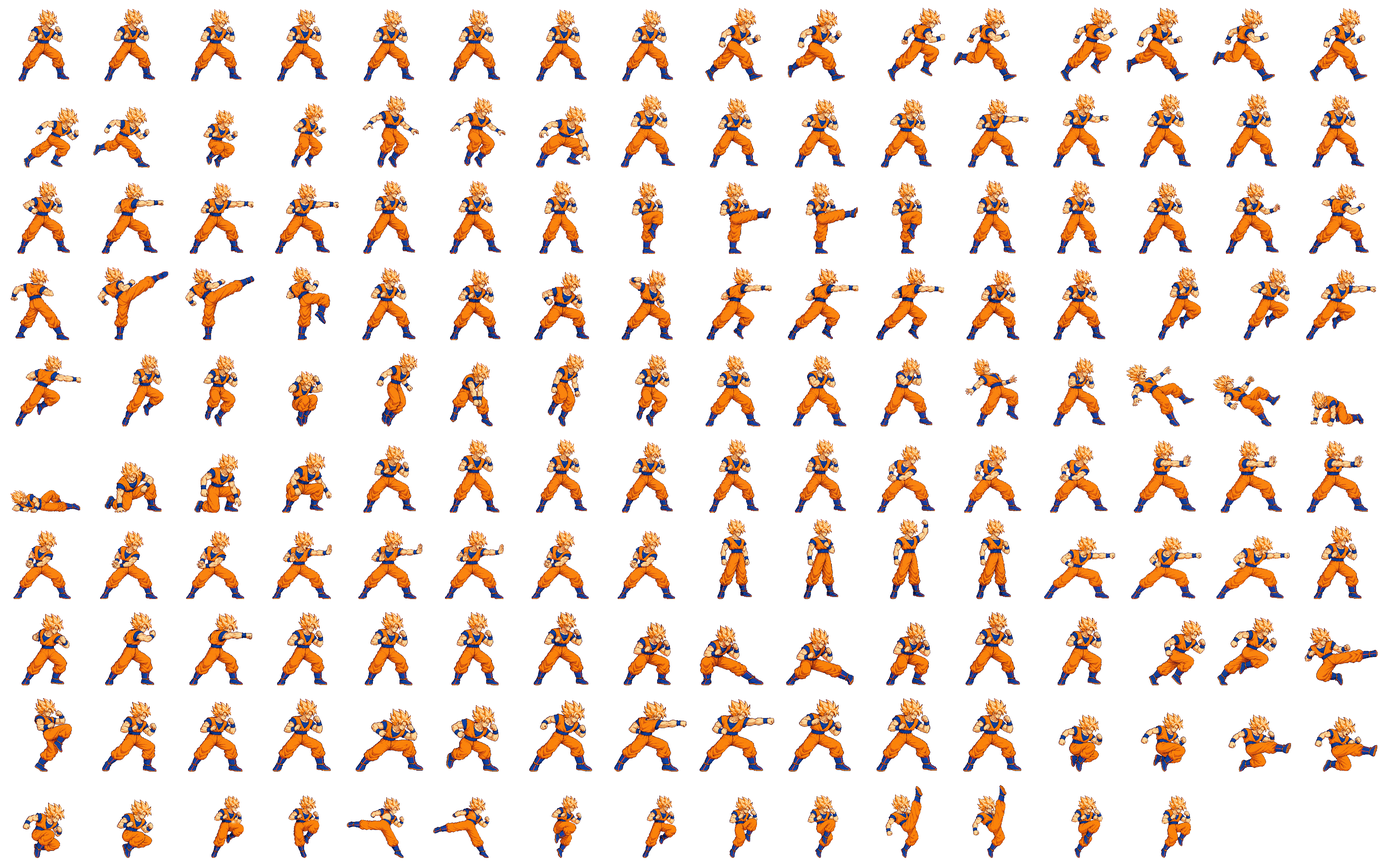
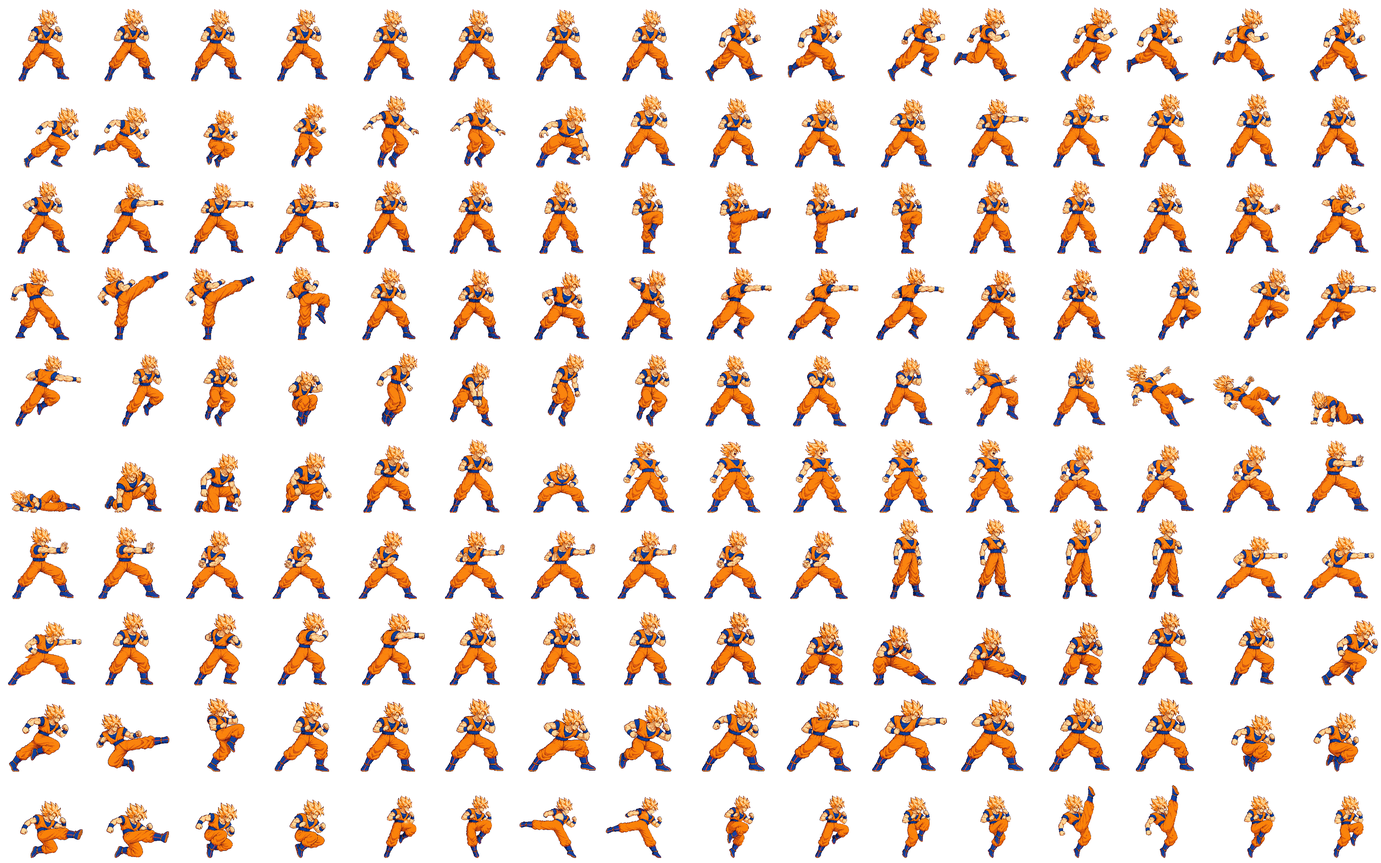
art(goku): package charge v10 review

Changed region(s): [[0.0, 0.5, 1.0, 1.0]]

diff --git a/public/reviews/charge-goku/index.html b/public/reviews/charge-goku/index.html
@@ -1,0 +1,31 @@
+<!doctype html>
+<html lang="en">
+<head>
+<meta charset="utf-8">
+<meta name="viewport" content="width=device-width,initial-scale=1">
+<title>Goku charge v10 review</title>
+<style>
+:root{color-scheme:dark;--bg:#10141c;--panel:#1a2230;--line:#354153;--text:#f2f5f9;--muted:#b8c2d0;--amber:#f6c85f;--red:#ff927e;--green:#9ee6b0}*{box-sizing:border-box}body{margin:0;background:var(--bg);color:var(--text);font:16px/1.55 system-ui,sans-serif}main{max-width:1200px;margin:auto;padding:28px 20px 64px}h1,h2{line-height:1.2}h1{font-size:clamp(2rem,5vw,3rem);margin:.2em 0}h2{font-size:1.45rem;margin:0 0 12px}.eyebrow{color:#9db4d1;text-transform:uppercase;letter-spacing:.12em;font-size:.8rem}.status{border:1px solid #866c32;background:#332b19;color:#ffe7a2;padding:14px 18px;border-radius:10px;margin:22px 0}.card{background:var(--panel);border:1px solid var(--line);border-radius:12px;padding:18px;margin:18px 0}.grid{display:grid;grid-template-columns:repeat(auto-fit,minmax(min(100%,420px),1fr));gap:14px}.media{width:100%;height:auto;display:block;background:#1d2027;border-radius:8px;border:1px solid var(--line)}.scroll{overflow:auto}.wide{min-width:900px}.buttons{display:flex;flex-wrap:wrap;gap:10px;margin:16px 0}.button{display:inline-block;background:#273954;border:1px solid #506789;border-radius:8px;padding:9px 14px;color:#fff;text-decoration:none}.button:hover{background:#334b70}.muted{color:var(--muted)}.hold{color:var(--amber)}.pass{color:var(--green)}ul{padding-left:1.2rem}code{color:#cfe1ff}footer{color:var(--muted);font-size:.9rem;margin-top:28px}
+</style>
+</head>
+<body><main>
+<p class="eyebrow">ART-CHARGE · Goku pilot · packed candidate v10</p>
+<h1>Goku charge redraw</h1>
+<p>Review the current approved charge (v05) beside the six-frame candidate (v10). The new timing plays gather and release once, then loops f2–f5 at 110 ms. The GIF runs the held loop four times and pauses.</p>
+<div class="status"><strong>Awaiting your drawing decision.</strong> v10 is not approved. The 48-color atlas and gameplay preview are for review only; the technical holds below remain open.</div>
+<div class="buttons"><a class="button" href="../../lab.html?p1=goku&amp;p2=naruto">Open Test Lab</a><a class="button" href="../../?fight=goku,naruto&amp;mode=solo&amp;debug">Open Goku match preview</a><a class="button" href="candidate-raw-v10.png">View raw candidate</a></div>
+<section class="grid">
+<article class="card"><h2>Current approved v05 · 50 ms per frame</h2><img class="media" src="current-v05-50ms.gif" alt="Current approved Goku charge v05 looping at 50 milliseconds per frame"><p class="muted">Extracted from the 5156b17d main atlas, the version this candidate replaces.</p></article>
+<article class="card"><h2>Candidate v10 · gather, release, then held loop</h2><img class="media" src="candidate-v10-plays-loop-four-times.gif" alt="Goku charge v10: gather, release, then four held loops before pausing"><p class="muted">Packed cells from the 48-color candidate atlas. This GIF plays f0, f1, f2–f5 four times, then pauses.</p></article>
+</section>
+<section class="card"><h2>All frames beside approved idle</h2><p class="muted">The idle f0 reference is first, followed by charge f0–f5. Both rows use the same packed cells and pixel density.</p><div class="scroll"><img class="media wide" src="new-packed-contact-1x.png" alt="Idle f0 and all six charge v10 frames side by side at one times scale"></div><p><a href="new-packed-contact-2x.png">Open the same lineup at 2× scale</a></p></section>
+<section class="card"><h2>Held-loop registration</h2><p class="muted">Packed f2–f5 at 2×, a tinted onion overlay, and pixel differences against f2. Yellow marks y220–240; cyan marks an approximate head region.</p><img class="media" src="registration-v10.png" alt="Packed charge v10 loop registration and pixel difference sheet"></section>
+<section class="card"><h2>Body sheet</h2><p class="muted">B compares garment area against idle f0. The tool labels B as advisory (about ±10% pose noise); a high value needs segment confirmation.</p><img class="media" src="body-goku-charge.png" alt="Goku charge v10 body sheet compared with approved idle and title combat reference"><p><a href="body-report.json">Machine-readable body report</a> · <a href="technical-notes.md">Full provenance and Astra evidence</a></p></section>
+<section class="card"><h2>Technical findings</h2><ul>
+<li><span class="pass">Astra qualitative anatomy and approximate placement: pass.</span> Identity, pose beats, body construction and silhouette are coherent against the approved idle and title-style references. No obvious clipping or quantization halo.</li>
+<li><span class="hold">Exact loop lock: hold.</span> At y240 the f2 floor pixels differ from f3/f4/f5 by 2/1/2 pixels; approximate foot placement is within 1 px. Knee and hip regions match about 1 px higher in f3–f5. The strict “identical pixels” rule is not met.</li>
+<li><span class="hold">Body size: advisory hold.</span> Body sheet B median is 1.175; f1–f5 range 1.164–1.199. The open-arm pose may raise garment area, but exact segment lengths remain uncertain. Goku’s automatic head probe is not reliable.</li>
+<li>Raw source contains soft/near-magenta pixels, but the 48-color packed cells show binary alpha, 47–48 colors per frame, and no obvious magenta fringe.</li>
+</ul><p class="muted">Interactive lab playback was not independently checked because Windows browser automation could not confirm the browser URL; the linked lab route uses the packed candidate and configured loop timing. A drawing approval covers v10 as drawn only. It does not clear the loop/body technical holds or approve gameplay integration.</p></section>
+<footer>Candidate v10 SHA256 <code>6317af1187a981d7fd44db59a9e5c0f5ed69356fe8d4f5571a9d3e7a8f6b6be5</code>. Packed sheet SHA256 <code>9a1417af010ead2f9ce0027c3835b2aee61964e2ffb08b1014eed4ecaa2ae0b4</code>. ENG-117 loopFrom support is on main. Review page and preview are not evidence of approval.</footer>
+</main></body></html>

diff --git a/art/characters/goku/production/charge-v10/REGISTRATION.md b/art/characters/goku/production/charge-v10/REGISTRATION.md
@@ -13,11 +13,11 @@
 
 Claude's relay charge #2 reports that it trial-packed the unchanged image using the Goku manifest, `--quantize 48`, and `loopFrom: 2`. After packer feet registration, f1-f5 feet matched within 1 px (x 49-206); f3-f5 relative to f2 had body dx 0, dy -1 and head/shoulders at most dx -1, dy -2. The 8 px height excess in f3-f5 was attributed to hair spikes. Claude reports these packed measurements are within the brief's loop lock. This is relayed evidence; Codex has not reproduced it in this worktree.
 
-The old source-canvas bounding-box centers in `charge_v08_HOLD.md` are not registered packed-cell measurements and must not be used as the final loop verdict. As directed in relay #2, registration from the production quantized packed cells is authoritative. ENG-117 (`loopFrom`) must reach main before a production pack, onion-skin registration sheet, body sheet, lab loop, or final packed atlas audit can be made.
+The old source-canvas bounding-box centers in `charge_v08_HOLD.md` are not registered packed-cell measurements and must not be used as the final loop verdict. As directed in relay #2, registration from the production quantized packed cells is authoritative. ENG-117 (`loopFrom`) is on main. The final review pack and registration sheet use packed atlas cells; the Sprite Lab route is linked, but interactive playback was not independently verified in this session.
 
 ## Astra pre-pack audit
 
-The raw candidate has been compared with the approved Goku model sheet, expression sheet, idle, and title-style baseline. Astra's pre-pack review found the identity and six-pose intent usable, with no visible clipping, but the raw source is not a clean technical pass: it contains 180,498 unique RGB values and nonuniform near-magenta background pixels (example: f0 top-left RGB 242, 12, 241). The held loop's source centers differ, so the loop lock cannot be certified from the raw canvas. Final quantized packed-cell registration and loop audit remain **HOLD/PENDING**. See the exact frame-level Astra findings in this file's audit addendum when received.
+The raw candidate was compared with the approved Goku model sheet, expression sheet, idle, and title-style baseline. Astra's pre-pack review found the identity and six-pose intent usable, with no visible clipping, but the raw source is not a clean technical pass: it contains 180,498 unique RGB values and nonuniform near-magenta background pixels (example: f0 top-left RGB 242, 12, 241). The held loop's source centers differ, so the loop lock cannot be certified from the raw canvas. Final quantized packed-cell registration and loop audit remain **HOLD/PENDING**. See the exact frame-level Astra findings in this file's audit addendum when received.
 
 This technical review is not user design approval. v10 is `needs review`; no approval is inferred.
 
@@ -30,7 +30,7 @@ This technical review is not user design approval. v10 is `needs review`; no app
 
 ## Astra frame-level raw audit (GPT-6 Astra, medium)
 
-**Finding:** raw visual/anatomy PASS to proceed to a diagnostic pack; raw technical compliance HOLD; packed-loop/anatomy audit HOLD. No user design approval. Qualitative comparison only, not a numeric segment pass. Hair obscures the skull crown, clothing obscures joints, and anchor/candidate pixel densities differ; physical segment comparisons remain uncertain.
+**Historical finding:** raw visual/anatomy PASS to proceed to a diagnostic pack; raw technical compliance HOLD; packed-loop/anatomy audit was pending at that stage. The packed audit below supersedes the packed-loop status. No user design approval. Qualitative comparison only, not a numeric segment pass. Hair obscures the skull crown, clothing obscures joints, and anchor/candidate pixel densities differ; physical segment comparisons remain uncertain.
 
 - f0: clear deep gather, lowered head, bent knees, fists at hips; crouch explains the shorter silhouette. No obvious enlarged head or compressed limb anatomy.
 - f1: clear release with raised chest, open shout, fists lowered and spread, wide planted stance; matches the approved shouting expression; arms and boots appear complete.
@@ -41,4 +41,20 @@ This technical review is not user design approval. v10 is `needs review`; no app
 
 Magenta-family-mask bounds (inclusive, source pixels within each 512x512 cell; fringe threshold uncertainty about +/-1-2 px): f0 `(68,161,439,497)`, f1 `(68,22,423,497)`, f2 `(58,26,411,497)`, f3 `(97,7,453,497)`, f4 `(68,7,423,497)`, f5 `(57,8,411,497)`. No visible boundary crossing; f3/f4 have 7 px above hair and each frame has 14 px below soles, short of the requested 20 px margin. Independent color count: 180,498 unique RGB values; soft/antialiased edges and background are not exact flat magenta (f0 top-left `(242,12,241)`). Inspect quantization for halos, silhouette erosion and lost face detail.
 
-Astra did not reproduce Claude relay #2's feet-registered measurements. Final acceptance remains contingent on actual quantized atlas inspection: body segments vs approved anchors, registered fists/feet/head, and f5-to-f2 playback.
+Claude relay #2 provided earlier trial-pack registration numbers. The final pack was independently audited below; final acceptance still has the exact loop-lock and body-segment holds recorded there, with the timed seam not independently checked.
+
+## Packed diagnostic and Astra final audit (GPT-6 Astra, medium)
+
[1 lines of base64/hex data omitted]
+
+Astra finding: qualitative identity/anatomy and approximate placement PASS; literal loop-lock compliance HOLD. f2-f5 floor occupancy masks differ from f2 by 2 / 1 / 2 pixels; foot contour positions are within 1 px. The f2 floor span is left 52-67 and right 188-205; f3 is 51-66 / 188-205; f4 is 51-67 / 188-205; f5 is 51-67 / 187-205. At y240 there are 34, 34, 35, 36 occupied pixels for f2-f5 respectively. Footprint XOR over y220-240 is 59 / 57 / 47. Regional registration estimates relative to f2: head f3 `(0,-1)`, f4 `(0,-2)`, f5 `(-1,-2)`; knees and hips each `(0,-1)`; left fist each `(-1,-1)`; right fist `(0,-1)`, `(1,-1)`, `(0,-1)`. Estimates are ±1 px and include cloth/shading changes, not located anatomical joint centers. Therefore the stated ≤1 px approximate placement passes, but the exact identical floor-pixel and locked knee/hip wording does not. Timed seam playback was not independently checked at audit time.
+
+Astra reports f0 is a clear crouched gather (149 px occupied height); f1 is a clear release; f2 is a coherent held reference. f3-f5 preserve apparent build and pose with breathing/updraft changes. No obvious anatomical discontinuity, enlarged head, shortened limb, missing digit mass, inflated clothing or clipping was found. This is qualitative only: hidden crown/joints and clothing prevent a defensible numeric segment pass. This does not support a version-bound numeric scale pass or clear loop lock or approve the art.
+
+Body sheet (`body-sheet/body-goku-charge.png`, `body-sheet/body-report.json`) gives garment-area B by frame `0.973, 1.164, 1.165, 1.189, 1.199, 1.184`, median `1.175` versus idle f0. B is advisory and can rise with the open-arm/wide-stance pose, but it is above the 1.12 flag and the segment measurements remain uncertain. Head-probe H values are not reliable for Goku under the manual head-probe configuration. Keep the body-size check as a visible review caveat. The combat comparison in the body sheet is the approved `title-combat-v02.png`; it was copied under the body-sheet tool’s expected alias in temporary staging.
+
+The quantized output has binary alpha, 47-48 occupied colors per frame and no visible magenta fringe or cell clipping. The source's near-magenta/soft-edge concern did not produce an obvious halo in the packed cells.
+
+### Review status
+
+No `scaleManualQA` pass is recorded for v10. Goku’s automatic probe is unreliable, segment measurements remain uncertain, and the B median is above the advisory threshold. The pack metadata reports this candidate as unmeasured. This is not a loop-lock pass, numeric segment pass, runtime approval or user design approval. Candidate v10 remains `needs review`; approvedVersion remains 5.

diff --git a/public/reviews/charge-goku/technical-notes.md b/public/reviews/charge-goku/technical-notes.md
@@ -1,0 +1,60 @@
+# Goku charge v10 provenance and registration status
+
+## Candidate identity
+
+- Candidate: `art/characters/goku/raw/charge_v10.png`
+- Source: `art/characters/goku/raw/_qa_hold/charge_v08_attempt03.png`
[1 lines of base64/hex data omitted]
+- Dimensions: 1536 x 1024; six cells in a 3-column x 2-row layout.
+- Promotion: byte-identical file copy, no new image call and no pixel edits. Attempt prompts and original raw-canvas measurements remain in `raw/_qa_hold/charge_v08_HOLD.md`.
+- Manifest `bodyHeight: 237` is provisional, retained from the existing charge slot pending body-sheet measurement against the approved idle. `approvedVersion` remains 5.
+
+## Registration evidence
+
+Claude's relay charge #2 reports that it trial-packed the unchanged image using the Goku manifest, `--quantize 48`, and `loopFrom: 2`. After packer feet registration, f1-f5 feet matched within 1 px (x 49-206); f3-f5 relative to f2 had body dx 0, dy -1 and head/shoulders at most dx -1, dy -2. The 8 px height excess in f3-f5 was attributed to hair spikes. Claude reports these packed measurements are within the brief's loop lock. This is relayed evidence; Codex has not reproduced it in this worktree.
+
+The old source-canvas bounding-box centers in `charge_v08_HOLD.md` are not registered packed-cell measurements and must not be used as the final loop verdict. As directed in relay #2, registration from the production quantized packed cells is authoritative. ENG-117 (`loopFrom`) is on main. The final review pack and registration sheet use packed atlas cells; the Sprite Lab route is linked, but interactive playback was not independently verified in this session.
+
+## Astra pre-pack audit
+
+The raw candidate has been compared with the approved Goku model sheet, expression sheet, idle, and title-style baseline. Astra's pre-pack review found the identity and six-pose intent usable, with no visible clipping, but the raw source is not a clean technical pass: it contains 180,498 unique RGB values and nonuniform near-magenta background pixels (example: f0 top-left RGB 242, 12, 241). The held loop's source centers differ, so the loop lock cannot be certified from the raw canvas. Final quantized packed-cell registration and loop audit remain **HOLD/PENDING**. See the exact frame-level Astra findings in this file's audit addendum when received.
+
+This technical review is not user design approval. v10 is `needs review`; no approval is inferred.
+
+## Approved identity anchor hashes
+
[3 lines of base64/hex data omitted]
+- Title-style comparison: `art/scale/title-style-pilot/PRODUCTION_CONTRACT.md` and the exact approved cells in `public/art-review/title-style-pilot/`.
+
+## Astra frame-level raw audit (GPT-6 Astra, medium)
+
+**Finding:** raw visual/anatomy PASS to proceed to a diagnostic pack; raw technical compliance HOLD; packed-loop/anatomy audit HOLD. No user design approval. Qualitative comparison only, not a numeric segment pass. Hair obscures the skull crown, clothing obscures joints, and anchor/candidate pixel densities differ; physical segment comparisons remain uncertain.
+
+- f0: clear deep gather, lowered head, bent knees, fists at hips; crouch explains the shorter silhouette. No obvious enlarged head or compressed limb anatomy.
+- f1: clear release with raised chest, open shout, fists lowered and spread, wide planted stance; matches the approved shouting expression; arms and boots appear complete.
+- f2: suitable held-pose reference; upward face, clenched fists, planted knees and feet.
+- f3: same apparent anatomical pose but source figure is displaced right. This is not proof of drift after feet registration. Hair and cloth differ.
+- f4: same apparent held-body construction; lifted gi flap and changed hair. No obvious limb-length or head-volume discontinuity by visual inspection.
+- f5: source placement returns near f2, with higher hair. The f5-to-f2 seam still needs playback inspection.
+
+Magenta-family-mask bounds (inclusive, source pixels within each 512x512 cell; fringe threshold uncertainty about +/-1-2 px): f0 `(68,161,439,497)`, f1 `(68,22,423,497)`, f2 `(58,26,411,497)`, f3 `(97,7,453,497)`, f4 `(68,7,423,497)`, f5 `(57,8,411,497)`. No visible boundary crossing; f3/f4 have 7 px above hair and each frame has 14 px below soles, short of the requested 20 px margin. Independent color count: 180,498 unique RGB values; soft/antialiased edges and background are not exact flat magenta (f0 top-left `(242,12,241)`). Inspect quantization for halos, silhouette erosion and lost face detail.
+
+Astra did not reproduce Claude relay #2's feet-registered measurements. Final acceptance remains contingent on actual quantized atlas inspection: body segments vs approved anchors, registered fists/feet/head, and f5-to-f2 playback.
+
+## Packed diagnostic and Astra final audit (GPT-6 Astra, medium)
+
[1 lines of base64/hex data omitted]
+
+Astra finding: qualitative identity/anatomy and approximate placement PASS; literal loop-lock compliance HOLD. f2-f5 floor occupancy masks differ from f2 by 2 / 1 / 2 pixels; foot contour positions are within 1 px. The f2 floor span is left 52-67 and right 188-205; f3 is 51-66 / 188-205; f4 is 51-67 / 188-205; f5 is 51-67 / 187-205. At y240 there are 34, 34, 35, 36 occupied pixels for f2-f5 respectively. Footprint XOR over y220-240 is 59 / 57 / 47. Regional registration estimates relative to f2: head f3 `(0,-1)`, f4 `(0,-2)`, f5 `(-1,-2)`; knees and hips each `(0,-1)`; left fist each `(-1,-1)`; right fist `(0,-1)`, `(1,-1)`, `(0,-1)`. Estimates are ±1 px and include cloth/shading changes, not located anatomical joint centers. Therefore the stated ≤1 px approximate placement passes, but the exact identical floor-pixel and locked knee/hip wording does not. Timed seam playback was not independently checked at audit time.
+
+Astra reports f0 is a clear crouched gather (149 px occupied height); f1 is a clear release; f2 is a coherent held reference. f3-f5 preserve apparent build and pose with breathing/updraft changes. No obvious anatomical discontinuity, enlarged head, shortened limb, missing digit mass, inflated clothing or clipping was found. This is qualitative only: hidden crown/joints and clothing prevent a defensible numeric segment pass. This supports the version-bound Goku manual head-scale record needed by the packer; it does not clear loop lock or approve the art.
+
+Body sheet (`body-sheet/body-goku-charge.png`, `body-sheet/body-report.json`) gives garment-area B by frame `0.973, 1.164, 1.165, 1.189, 1.199, 1.184`, median `1.175` versus idle f0. B is advisory and can rise with the open-arm/wide-stance pose, but it is above the 1.12 flag and the segment measurements remain uncertain. Head-probe H values are not reliable for Goku under the manual head-probe configuration. Keep the body-size check as a visible review caveat. The combat comparison in the body sheet is the approved `title-combat-v02.png`; it was copied under the body-sheet tool’s expected alias in temporary staging.
+
+The quantized output has binary alpha, 47-48 occupied colors per frame and no visible magenta fringe or cell clipping. The source's near-magenta/soft-edge concern did not produce an obvious halo in the packed cells.
+
+### Review status
+
+No `scaleManualQA` pass is recorded for v10. Goku’s automatic probe is unreliable, segment measurements remain uncertain, and the B median is above the advisory threshold. The pack metadata reports this candidate as unmeasured. This is not a loop-lock pass, numeric segment pass, runtime approval or user design approval. Candidate v10 remains `needs review`; approvedVersion remains 5.

diff --git a/art/characters/goku/CLAUDE_ART_HANDOFF.md b/art/characters/goku/CLAUDE_ART_HANDOFF.md
@@ -1,19 +1,17 @@
 # Claude art handoff — ART-CHARGE Goku pilot
 
-## Current status (2026-10-18; relay charge #2)
+## Current status (2026-10-18; relay charge #3)
 
[2 lines of base64/hex data omitted]
 
-Claude relay #2 reports a trial pack with f1-f5 feet within 1 px; f3-f5 body dx 0/dy -1 and head/shoulders at most dx -1/dy -2 relative to f2; the 8 px added height is hair spikes. This is relayed external evidence; Astra did not reproduce it. Astra's raw visual/anatomy review says the six pose beats and identity are usable to proceed to diagnostic packing, but raw technical compliance is HOLD: 180,498 unique RGB values, nonuniform near-magenta background, soft edges, 7 px top hair margin in f3/f4 and 14 px below soles. The loop cannot be certified from raw source centers. Exact audit and provenance are in `production/charge-v10/REGISTRATION.md`.
+### Audit and holds
 
-## Engine dependency and next work
+Astra qualitatively passes identity, pose intent, anatomy screening and approximate registration. Exact loop lock remains HOLD: f2-to-f3/f4/f5 floor-mask changes are 2/1/2 pixels, feet contours are within 1 px, and knee/hip region estimates are about 1 px high with ±1 px uncertainty. Body sheet B is `0.973, 1.164, 1.165, 1.189, 1.199, 1.184` (median `1.175`, advisory-high); exact segment measurements remain uncertain and Goku’s automatic head probe is unreliable. No `scaleManualQA` pass is recorded. Quantization has no obvious magenta halo or clipping. The timed lab route is linked but interactive playback was not independently checked because Windows browser automation could not confirm the browser URL; the review GIF shows f0, f1, four f2-f5 cycles, then pause.
 
-Do not pack until ENG-117 (PR #182, `loopFrom`) is on main. Claude will relay when available. Then merge main into this task branch, verify `loopFrom` support, pack with Goku's production options, inspect the quantized cells, create the registration sheet/body sheet/lab loop, and complete the final packed Astra audit. Correct technical defects only within authorized attempts; no new image calls for Goku unless the user directs them. After the pack and review page/preview are ready, ring charge for user review and stop.
-
-The current candidate is not user-approved and no review page or preview exists. Do not begin another fighter until the user's Goku response is delivered as a relay message or typed in this chat. Codex has not merged or deployed anything.
+Review page: `public/reviews/charge-goku/`. Local route: `/lab.html?p1=goku&p2=naruto`; match route: `/?fight=goku,naruto&mode=solo&debug`. Preview: pending `npm run pr -- preview`. This candidate is not approved and is not cleared for integration. Do not start another fighter before the user answers on Goku.
 
 ## Branch and preserved history
 
 - Branch: `art/charge-goku`
 - Worktree: `E:/Vibe Coding/Claude Code/gcdTourney/.worktrees/art-charge-goku`
-- Earlier rounds v06-v09 and their prompts/holds remain preserved under `raw/_qa_hold/`; this v10 is promoted from v08 attempt03 after Claude's registration correction.
+- Earlier rounds v06-v09 and their prompts/holds remain preserved under `raw/_qa_hold/`; this v10 is promoted from v08 attempt03 without modification.

diff --git a/art/REVIEW.md b/art/REVIEW.md
@@ -6,7 +6,7 @@ Goku's head probe is manually disabled. Astra's relay #39 visual scale review pa
 
 | date | character | asset | file | version | status | what changed | QA notes |
 |---|---|---|---|---|---|---|---|
-| 2026-10-18 | Goku | charge | [v10](characters/goku/raw/charge_v10.png) · [provenance and registration](characters/goku/production/charge-v10/REGISTRATION.md) | v10 | needs review | Promoted unchanged from v08 attempt03 after Claude's feet-registered trial-pack correction. | Candidate only; no approval. Claude reports f1-f5 feet within 1 px and f3-f5 body dx 0/dy -1, head/shoulders max dx -1/dy -2 relative to f2; 8 px extra height is hair. Astra's raw audit found nonuniform near-magenta pixels; loop audit remains pre-pack. Production quantized atlas check waits for ENG-117 loopFrom on main; review page and preview remain pending. |
+| 2026-10-18 | Goku | charge | [v10](characters/goku/raw/charge_v10.png) · [review page](../public/reviews/charge-goku/) · [registration/Astra audit](characters/goku/production/charge-v10/REGISTRATION.md) · [body sheet](characters/goku/production/charge-v10/body-sheet/body-goku-charge.png) | v10 | needs review | Promoted unchanged from v08 attempt03 after Claude's feet-registered trial-pack correction. | 48-color full pack: 31 animations / 160 frames; loopFrom 2. Astra qualitative anatomy and approximate placement pass, but exact f2-f5 floor mask lock HOLD (2/1/2 changed pixels; approximate foot contour within 1px), B median 1.175 advisory-high and segments uncertain. Raw near-magenta concern produced no obvious packed halo. Candidate only, not approved; preview/user decision pending.
 | 2026-10-18 | Goku | fTilt | [v01](characters/goku/raw/fTilt_v01.png) · [attempt ledger](characters/goku/raw/_qa_hold/fTilt_v01_attempt03.md) · [48-color atlas](characters/goku/production/eng112-dsmash-v02-diagnostic/characters/goku/sheet.png) · [Astra audit](characters/goku/production/ENG112_IMPORT_SCALE_AUDIT.md) | v01 | approved | Selected attempt 3 unchanged as the chest-height punch pilot; attempt 1 output lost and documented, attempt 2 retained, attempt 3 selected. | Astra scaleManualQA PASS for exact 48-color quantized cells 111–117 at strip scale 1; build/torso/boots/gi coherent against idle/light2 within ±3–4px ground uncertainty. Cell 113 contact timing remains separate. User approved as drawn via Claude relay combat #40: “fTilt v01, dTilt v01, dashAttack v01, fSmash v01 / fair v01, bair v01, uair v01”. Drawing approval only; strict gate and runtime contact remain separate. |
 | 2026-10-18 | Goku | fair | [v01](characters/goku/raw/fair_v01.png) · [attempt ledger](characters/goku/raw/_qa_hold/fair_v01_attempt03.md) · [48-color atlas](characters/goku/production/eng112-dsmash-v02-diagnostic/characters/goku/sheet.png) · [Astra audit](characters/goku/production/ENG112_IMPORT_SCALE_AUDIT.md) | v01 | approved | Selected attempt 3 unchanged as the airborne kick pilot; attempts 1 and 2 retained. | Astra scaleManualQA PASS for exact quantized cells 163–168 at strip packScale .92; complete limbs and coherent proportions within ±5–6px rotated-pose uncertainty; active boots have 11px margin. User approved as drawn via Claude relay combat #40: “fTilt v01, dTilt v01, dashAttack v01, fSmash v01 / fair v01, bair v01, uair v01”. Drawing approval only; strict gate and runtime contact remain separate. |
 | 2026-10-18 | Goku | uTilt | [v01](characters/goku/raw/uTilt_v01.png) · [attempt ledger](characters/goku/raw/_qa_hold/uTilt_v01_attempt01.md) · [Astra audit](characters/goku/production/ENG112_IMPORT_SCALE_AUDIT.md) | v01 | needs review | Seven-frame rising arc candidate. | Technical HOLD: guard cells 118/124 show visibly reduced boots (26–31px vs idle 36–41px), torso, arms and clothing; ±3px ground uncertainty does not explain the combined reduction. Frame 122 has 25px top margin. Relay #41 authorizes one fresh round of up to 3 calls for this move after the seven-move branch is merged; not started on this branch. |

diff --git a/art/TRACKER.md b/art/TRACKER.md
@@ -742,7 +742,7 @@ World batches are reviewed together in [REVIEW.md](REVIEW.md); the claim queue t
 
 ## goku
 
[2 lines of base64/hex data omitted]
 
 Relay 9 (2026-10-16) authorized one redraw call each for `light3` and `heavy` (fifth cumulative call each). Original outputs `light3_v10` and `heavy_v12` remain preserved under `characters/goku/raw/_qa_hold/`; relay9 assemblies are `light3_v11` (.62, 256px diagnostic plus complete 280px companion) and `heavy_v14` (.720). Relay #10 user-approved heavy v14 as drawn (“Approved”); its exact 22-animation/101-frame strict atlas technical PASS is documented. Relay #11 authorized exactly one sixth cumulative light3 call (user quote: “Goku luffy retry”). Its v12 source is preserved under `_qa_hold`, and v13 is active at `characters/goku/raw/light3_v13.png` with a byte-identical preservation copy under `_qa_hold`; factor .696133442603862 comes from multi-reference torso/boot/belt landmarks, not posed bbox fitting. Astra passed the exact 23-animation/108-frame quantized atlas within measurement uncertainty; all 101 retained alpha masks match the prior audited baseline and light3 v13 packs x1 at bodyHeight237 within native-size tolerance. The real strict branch pack reproduces audited sheet/meta hashes. Manifest newest and approved version is 13. The user approved Goku light3 v13 via Claude relay #12: "Approve Goku light3 v13 and Luffy special v02 as drawn." Heavy v14 stays user-approved/approvedVersion 14. See `characters/goku/production/relay11-generation/` and `characters/goku/production/manual-audit-r5/`. No further generation call is authorized.
 

diff --git a/CHANGELOG.md b/CHANGELOG.md
@@ -16,7 +16,7 @@ Fixed, Security. Reference task ids and ADRs where useful.
 
 ## [Unreleased]
 
-- Changed (ART-CHARGE): promoted Goku charge v10 unchanged from v08 attempt03 after Claude reported feet-registered trial-pack loop measurements; recorded raw Astra technical holds and preserved the earlier attempts. Production quantized packing and user review wait for ENG-117 (`loopFrom`) on main.
+- Changed (ART-CHARGE): promoted Goku charge v10 unchanged from v08 attempt03 after Claude reported feet-registered trial-pack loop measurements; recorded raw Astra technical holds and preserved the earlier attempts. After ENG-117 reached main, packed a 48-color review atlas and recorded the registration/body evidence, Astra holds and review page. Candidate still awaits user drawing decision; no approval or integration is implied.
 - Changed (ENG-117): holding Special no longer makes the fighter twitch. A strip can now play its first frames once and then loop from a later one (anims.json `loopFrom`; packer, game, menus, Sprite Lab, art review page, lab viewer), and `charge` becomes 6 frames: a gather and a release, then a slow held loop (70/90/110 ms instead of four frames at 50 ms; contract in art/SPEC.md "Charge", brief art/characters/CHARGE_BRIEF.md for the redraw, ART-CHARGE). The game no longer shakes the sprite at 11 Hz during the charge (the Smash attack charge keeps its shake), and the 3D placeholder charges the new way. Today's 4-frame charge art keeps playing as before until each fighter's redraw lands. The determinism fixtures are re-recorded on the new simulation fingerprint (14a183eebf2c); both replay frame for frame.
 
 - Changed: the determinism fixtures are re-recorded after Goku's seven Smash moves (fingerprint 116df829f43b); both replay frame for frame.
